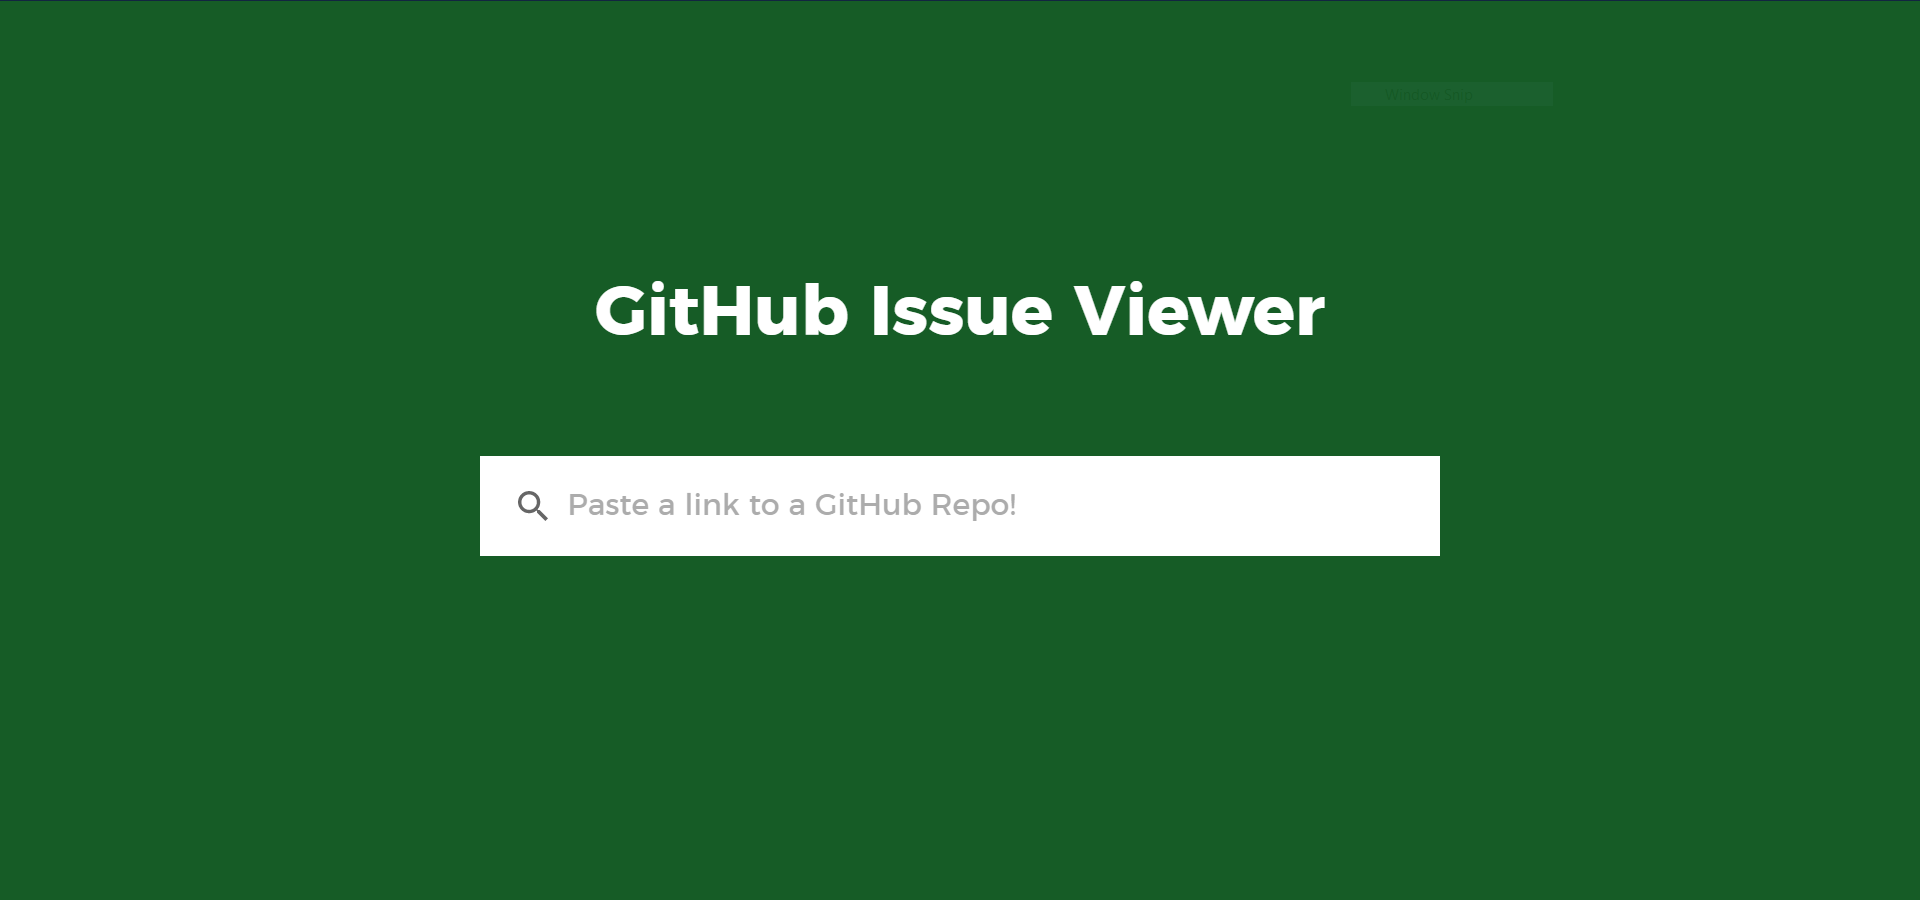
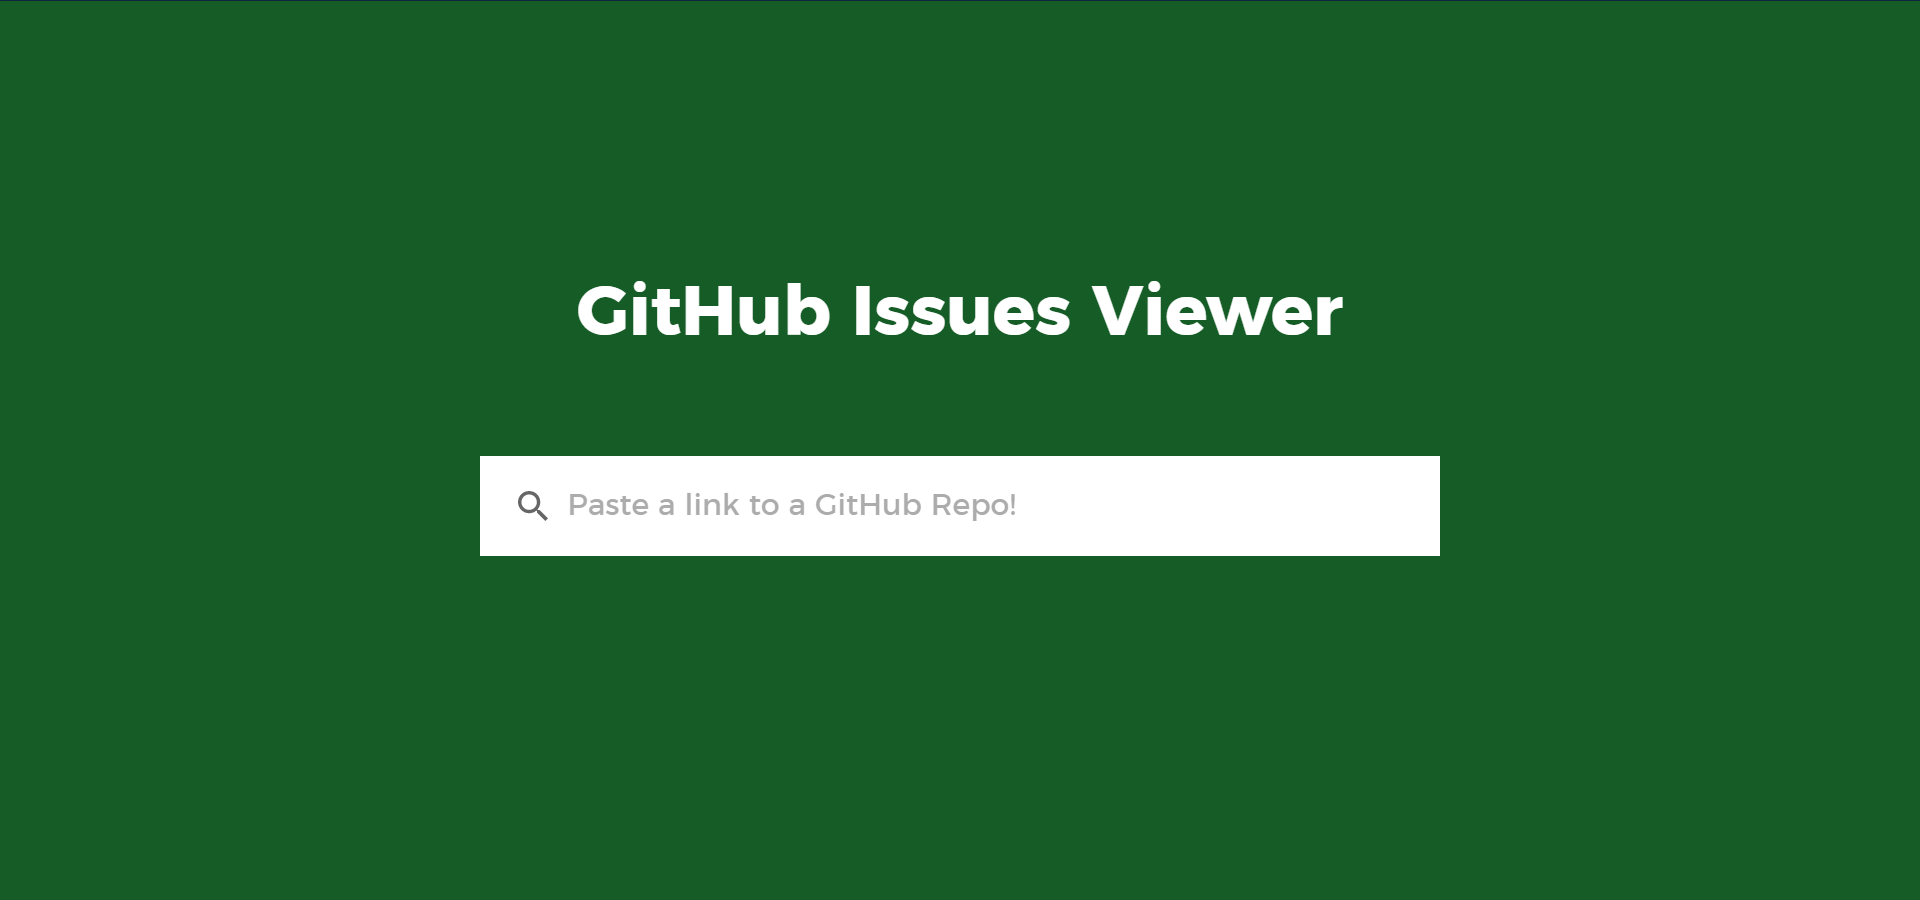
Minor changes

Changed region(s): [[0.2812, 0.3111, 0.7188, 0.3733]]

diff --git a/src/Components/Search.js b/src/Components/Search.js
@@ -4,7 +4,7 @@ import '../Styles/Search.css';
 export default function Search(props) {
 	return (
 		<div className = "search-page">
-			<h1 className = "title"> GitHub Issue Viewer</h1>
+			<h1 className = "title"> GitHub Issues Viewer</h1>
 			<form className = "text-center" onSubmit = {props.getIssues}>
 				<input 
 					className = 'search-bar'

diff --git a/src/Components/Header.js b/src/Components/Header.js
@@ -5,7 +5,7 @@ import { ReactComponent as CloseSVG } from '../Assets/icons/close.svg';
 export default function Header(props) {
 	return (
 		<div className = "header">
-			GitHub Issue Viewer
+			GitHub Issues Viewer
 			<div className = "url">
 				{props.url}
 				<CloseSVG className='closeIcon' onClick = {props.handleClick}/>

diff --git a/public/index.html b/public/index.html
@@ -18,7 +18,7 @@
       integrity="sha384-9aIt2nRpC12Uk9gS9baDl411NQApFmC26EwAOH8WgZl5MYYxFfc+NcPb1dKGj7Sk"
       crossorigin="anonymous"
     />
-    <title>GitHub Issues Explorer</title>
+    <title>GitHub Issues Viewer</title>
   </head>
   <body>
     <noscript>You need to enable JavaScript to run this app.</noscript>
